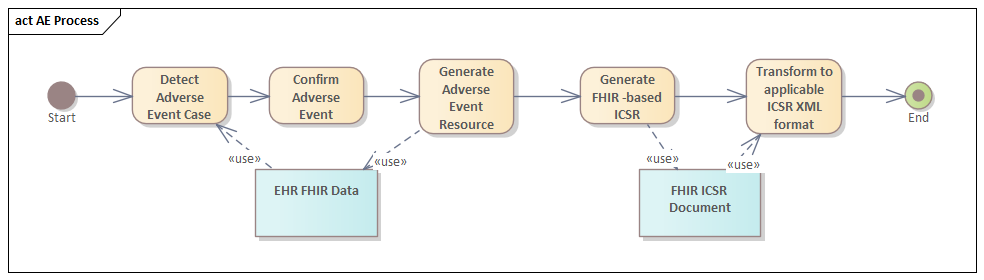
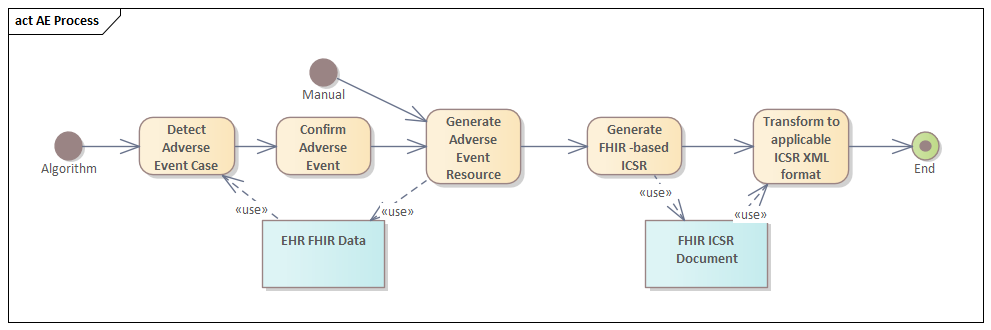
Update the guide based on review.  Update guide to reference and use MedMorph profiles.

diff --git a/input/pagecontent/index.md b/input/pagecontent/index.md
@@ -1,9 +1,19 @@
-### Overview
+### Scope
 
-This FHIR Implementation Guide details a process where EHR FHIR data is analyzed to detect Adverse Events due to biologic products, such as vaccines and blood products.  There are a set of profiles that allow the creation of a FHIR-based ICSR report.  This FHIR-based ICSR report has been mapped to the ICH ICSR specifications, specifically FDA's FAERS and VAERS implementation of those specifications.  To facilitate the detection of Adverse Events, a number of algorithms developed for FDA's Center for Biologic Evaluation and Research (CBER) Biologics Effectiveness and Safety (BEST) initiatve.  A subset of those algorithms are presented in this guide.
+This FHIR Implementation Guide details a process where adverse event (AE) individual case safety reports (ICSR) are generated from EHR data. There are two main components to this process: detection and reporting. To support AE detection, this IG includes a set of Clinical Quality Language (CQL) algorithms which can be run on FHIR data. To support AE reporting, this IG includes a set of profiles that enables the creation of a FHIR-based ICSR report and mappings to ICH ICSR specification (FAERS and VAERS implementation of those specifications). This work was developed as part of the FDA's Center for Biologic Evaluation and Research (CBER) Biologics Effectiveness and Safety (BEST) initiatve. This IG currently focuses on post-vaccination and post-tranfusion AE reporting.
 
-### Adverse Event Detection and Submission Process
+### Rationale
+Adverse events due to biological products are underreported to regulatory authorities and the data reported may not always contain adequate information for decision-making.  Use of EHR FHIR data could improve reporting of adverse events and minimize the burden of identification on practitioners.
 
+### Dependencies
+This IG depends on:
+* <a href="{{site.data.fhir.hl7_fhir_us_core}}">US Core</a>
+* <a href="{{site.data.fhir.hl7_fhir_us_medmorph}}">Making EHR Data More available for Research and Public Health (MedMorph)</a>
+
+### Adverse Event Detection and Submission Workflow
+We consider the AE Detection and Submission workflow to be a type of <a href="http://hl7.org/fhir/us/medmorph/2021Jan/usecases.html#data-submission-workflow">MedMorph's Data Submission Workflow</a>.
+
+NOTE: The diagram below is a UML activity diagram.  The <<use>> stereotypes indicate data that is used by the associated activity.  If the arrow is pointing to the activity, then the activity is reading that data.  If the arrow is pointing away from the activity, then the activity is generating that data.
 {::options parse_block_html="false" /}
 <figure>
   <img src="AE_Process.png" alt="Adverse Event Detection and Submission Process"/>
@@ -13,20 +23,23 @@ This FHIR Implementation Guide details a process where EHR FHIR data is analyzed
 
 
 #### Detect Adverse Event Case
-Using EHR FHIR Data, a practitioner can manually detect or can use the algorithms defined in this guide to detect specific Adverse Event cases.
+A system can detect AE cases automatically using the FHIR-based CQL <a href="algorithms.html">algorithms</a> referenced in this IG.
 
-#### Generate FHIR AdverseEvent Resource
-A practitioner can look at the detected Adverse Event case and confirm an actual Adverse Event and then create an instance of the AdverseEvent resource.
+#### Confirm Adverse Event
+Once an Adverse Event has been detected, a practitioner can review the relevant data and confirm that it is an actual Adverse Event that should be reported.
+
+#### Generate AdverseEvent Resource
+Once an Adverse Event has been confirmed or if a practitioner manually determines there is an Adverse Event to report, a system can generate an instance of the FHIR AdverseEvent resource.
 
 #### Generate FHIR-based ICSR Document
-Using the profiles in this Implementation Guide, the a FHIR-based ICSR document can be generated.
+A system can generate a FHIR-based ICSR document using the <li><a href="profile_listing.html">profiles</a></li> referenced in this IG.
 
-#### Transform to applicable VAERS/FAERS ICSR XML format
-A mapping document and sample XSL transforms are provided in this Implementation Guide that allows the FHIR-based ICSR document to be transformed into the appropriate XML format to allow for submission to FDA's VAERS or FAERS systems.
+#### Transform to applicable ICSR XML format
+A system can further transform the ICSR document to the appropriate XML formal for submission to the FDA FAERS and VAERS systems. This IG provides sample <a href="icsr_mappings.html">ICSR Mapping</a> XSL transformations.
 
 ### Authors
 
-The development of this Implementation Guide was funded by FDA Center for Biologic Evaluation and Research (CBER) as part of the Biologic Effectiveness and Safety (BEST) initiative.
+The development of this Implementation Guide was funded by FDA CBER BEST initiative.
 
 * FDA CBER BEST IBM Project Team
 * Jean Duteau (mailto: jean@duteaudesign.com)

diff --git a/input/pagecontent/profile_listing.md b/input/pagecontent/profile_listing.md
@@ -11,7 +11,7 @@
 
 <h4>FAERS Profiles</h4>
 <ul>
-	<li><a href="StructureDefinition-ibm-fda-icsr-faers-messageheader.html">FAERS MessageHeader</a> - the specific constraints on a VAERS report submission</li>
+	<li><a href="StructureDefinition-ibm-fda-icsr-faers-messageheader.html">FAERS MessageHeader</a> - the specific constraints on a FAERS report submission</li>
 	<li><a href="StructureDefinition-ibm-fda-faers-adverseevent.html">FAERS Adverse Event</a> - the Adverse Event profile with a binding to Transfusion-related event codes</li>
 	<li><a href="StructureDefinition-ibm-fda-icsr-transfusion.html">Transfusion</a> - the specific fields needed to represent a transfusion procedure</li>
 	<li><a href="StructureDefinition-ibm-fda-icsr-bloodproduct.html">Blood Product</a> - information about the blood product that was used in a transfusion</li>
@@ -38,7 +38,7 @@
     </li>
 	<li><a href="StructureDefinition-ibm-fda-icsr-messageorganization.html">Report Submission Organization</a> - represents organizations that are senders/receivers of an ICSR report</li>
 	<li><a href="StructureDefinition-ibm-fda-icsr-adverseevent.html">Adverse Event</a> - the common fields needed to represent an Adverse Event</li>
-	<li><a href="StructureDefinition-ibm-fda-icsr-medicationadministration.html">Drug Administration</a> - the specific fields needed to represent a drug administration</li>
+	<li><a href="StructureDefinition-ibm-fda-icsr-medicationadministration.html">Medication Administration</a> - the specific fields needed to provide the required detail to report a medication administration</li>
 	<li>Algorithm Count Observations
 		<ul>
 			<li><a href="StructureDefinition-ibm-fda-icsr-aecountobservation.html">Adverse Event Count Observation</a> - conveys the number of adverse events detected by the algorithm</li>
@@ -52,8 +52,6 @@
 
 <h3><a name="AdverseEventValueSetProfiles"></a>Adverse Event Value Sets and Profiles</h3>
 <p>In order to support the detection adverse event cases for reporting, this IG includes a curated list of value sets. These value sets are comprised of ICD-10-CM and SNOMED codes related to adverse event conditions and symptoms.  We have also created profiles on Condition and AdverseEvent that bind these value sets to the appropriate element.</p>
-<p>Note that the FDA CBER BEST initiative is developing and validating portable computational phenotype algorithms to ensure robust detection of adverse events. Updated references to the value sets (and term sets) used by these algorithms will be added to this IG in the future.</p>
-
 <p>Note that the FDA CBER BEST initiative is developing and validating portable computational phenotype algorithms to ensure robust detection of adverse events. Updated references to the value sets (and term sets) used by these algorithms will be added to this IG in the future.</p>
 
 <h4><a name="Vaccine AE Valuesets"></a>Vaccine AEFI Value Sets</h4>

diff --git a/input/pagecontent/relationship_to_us-core.md b/input/pagecontent/relationship_to_us-core.md
@@ -1,6 +1,6 @@
-<p>We have tried to have the FHIR profiles conform to the HL7 FHIR US Core Implementation Guide where applicable.  Below is a summary of the differences between the three sets of profiles and US-Core:</p>
+<p>We have tried to have the FHIR profiles conform to the HL7 FHIR US Core Implementation Guide where applicable.  Below is a summary of the differences between the profiles defined in this guide and the US-Core profiles:</p>
 
-<h3><a name="ICSRSubmissionProfiles"></a>ICSR Submission Profiles</h3>
+<h3>Differences from IG-defined Profiles to US-Core</h3>
 <ul>
 <li>Patient: Added militaryStatus extension</li>
 <li>Practitioner: Added mustSupport to: telecom, address</li>
@@ -31,10 +31,4 @@
 <li>BiologicallyDerivedProduct: Not in US-Core</li>
 <li>Vital Signs: Used without change for Weight, Height, LastMenstrualPeriod, AgeGroup</li>
 <li>AdverseEvent: Not in US-Core</li>
-</ul>
-
-<h3><a name="CaseDetectionProfiles"></a>Case Detection Profiles</h3>
-<ul>
-	<li>AdverseEvent: Not in US-Core</li>
-	<li>Condition: Used without changes</li>
 </ul>
